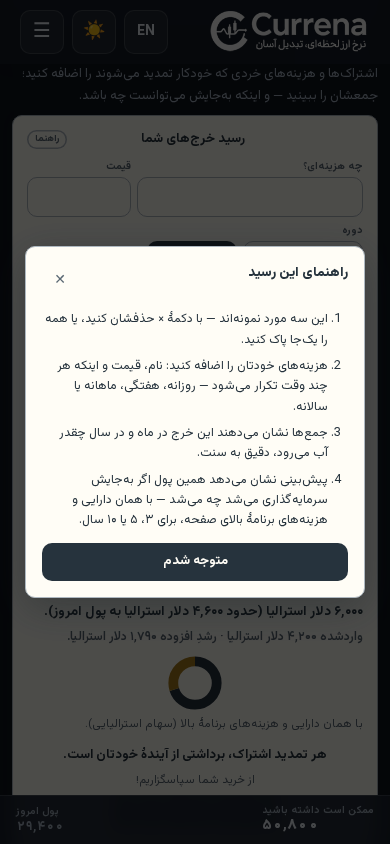
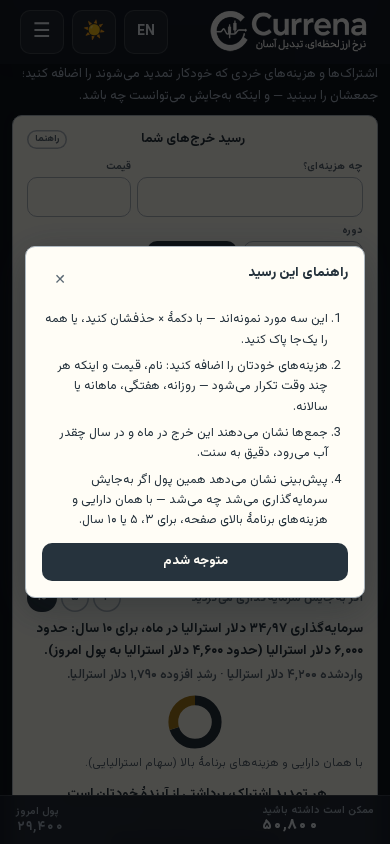
v10.1 fix — the guide pill drops its redundant aria-label (live axe found one fa label-content-name-mismatch node: the visible «راهنما» is not word-contained in the aria-label «راهنمای این رسید»; the visible text is already the accessible name — label-in-name by definition, the attribute removed; EN

Changed region(s): [[0.0615, 0.7085, 0.9231, 0.955], [0.8615, 0.8318, 0.8923, 0.8626]]

diff --git a/scripts-research/v10.1-axe-live.ts b/scripts-research/v10.1-axe-live.ts
@@ -1,0 +1,25 @@
+import { chromium } from "playwright";
+import AxeBuilder from "@axe-core/playwright";
+const browser = await chromium.launch();
+for (const scheme of ["light", "dark"] as const) {
+  for (const locale of ["en", "fa"] as const) {
+    const context = await browser.newContext({ viewport: { width: 390, height: 844 }, colorScheme: scheme });
+    const page = await context.newPage();
+    await page.goto("https://currena.ir/tools/compound-wealth", { waitUntil: "networkidle", timeout: 60000 });
+    if (locale === "fa") {
+      await page.click('header button:has-text("فا")');
+      await page.waitForTimeout(700);
+    }
+    const axe = await new AxeBuilder({ page }).withTags(["wcag2a", "wcag2aa", "wcag21a", "wcag21aa"]).analyze();
+    const newVisualNodes = axe.violations.flatMap((v) => v.nodes.map((n) => ({ id: v.id, target: n.target })))
+      .filter((n) => n.target.some((t) => /donut|whatif|compare-cols|guide|examples-tag/.test(String(t))));
+    console.log(
+      `${scheme}-${locale}: ${axe.violations.length} violations`,
+      axe.violations.map((v) => `${v.id}(${v.nodes.length})`).join(", ") || "clean",
+      "| new-visual nodes:", JSON.stringify(newVisualNodes),
+    );
+    await page.close();
+    await context.close();
+  }
+}
+await browser.close();

diff --git a/scripts-research/v10.1-axe-local4.ts b/scripts-research/v10.1-axe-local4.ts
@@ -1,0 +1,19 @@
+import { chromium } from "playwright";
+import AxeBuilder from "@axe-core/playwright";
+const browser = await chromium.launch();
+for (const scheme of ["light", "dark"] as const) {
+  for (const locale of ["en", "fa"] as const) {
+    const context = await browser.newContext({ viewport: { width: 390, height: 844 }, colorScheme: scheme });
+    const page = await context.newPage();
+    await page.goto("http://localhost:3100/tools/compound-wealth", { waitUntil: "networkidle" });
+    if (locale === "fa") {
+      await page.click('header button:has-text("فا")');
+      await page.waitForTimeout(600);
+    }
+    const axe = await new AxeBuilder({ page }).withTags(["wcag2a", "wcag2aa", "wcag21a", "wcag21aa"]).analyze();
+    console.log(`${scheme}-${locale}:`, axe.violations.map((v) => `${v.id}(${v.nodes.length})`).join(", ") || "clean");
+    await page.close();
+    await context.close();
+  }
+}
+await browser.close();

diff --git a/scripts-research/v10.1-axe-fa-node-dev.ts b/scripts-research/v10.1-axe-fa-node-dev.ts
@@ -1,0 +1,14 @@
+import { chromium } from "playwright";
+import AxeBuilder from "@axe-core/playwright";
+const browser = await chromium.launch();
+const context = await browser.newContext({ viewport: { width: 390, height: 844 }, colorScheme: "light" });
+const page = await context.newPage();
+await page.goto("http://localhost:3100/tools/compound-wealth", { waitUntil: "networkidle", timeout: 60000 });
+await page.click('header button:has-text("فا")');
+await page.waitForTimeout(700);
+const axe = await new AxeBuilder({ page }).withTags(["wcag2a", "wcag2aa", "wcag21a", "wcag21aa"]).analyze();
+for (const v of axe.violations) {
+  console.log(v.id, v.nodes.length);
+  for (const n of v.nodes) console.log("  target:", JSON.stringify(n.target), "html:", (n.html ?? "").slice(0, 160));
+}
+await browser.close();

diff --git a/scripts-research/v10.1-axe-fa-node.ts b/scripts-research/v10.1-axe-fa-node.ts
@@ -1,0 +1,14 @@
+import { chromium } from "playwright";
+import AxeBuilder from "@axe-core/playwright";
+const browser = await chromium.launch();
+const context = await browser.newContext({ viewport: { width: 390, height: 844 }, colorScheme: "light" });
+const page = await context.newPage();
+await page.goto("https://currena.ir/tools/compound-wealth", { waitUntil: "networkidle", timeout: 60000 });
+await page.click('header button:has-text("فا")');
+await page.waitForTimeout(700);
+const axe = await new AxeBuilder({ page }).withTags(["wcag2a", "wcag2aa", "wcag21a", "wcag21aa"]).analyze();
+for (const v of axe.violations) {
+  console.log(v.id, v.nodes.length);
+  for (const n of v.nodes) console.log("  target:", JSON.stringify(n.target), "html:", (n.html ?? "").slice(0, 160));
+}
+await browser.close();

diff --git a/src/components/compound/receipt.tsx b/src/components/compound/receipt.tsx
@@ -407,7 +407,6 @@ export function SpendingReceipt({
             ref={guideButtonRef}
             onClick={() => setGuideOpen(true)}
             aria-haspopup="dialog"
-            aria-label={copy.guideTitle}
             data-cw="receipt-guide-open"
             className="shrink-0 rounded-full px-2 py-[2px] text-[9.5px] font-bold outline-none ring-[var(--color-ring)] transition-shadow focus-visible:ring-2"
             style={{ color: P.muted, boxShadow: `inset 0 0 0 1.5px ${P.rule}` }}
